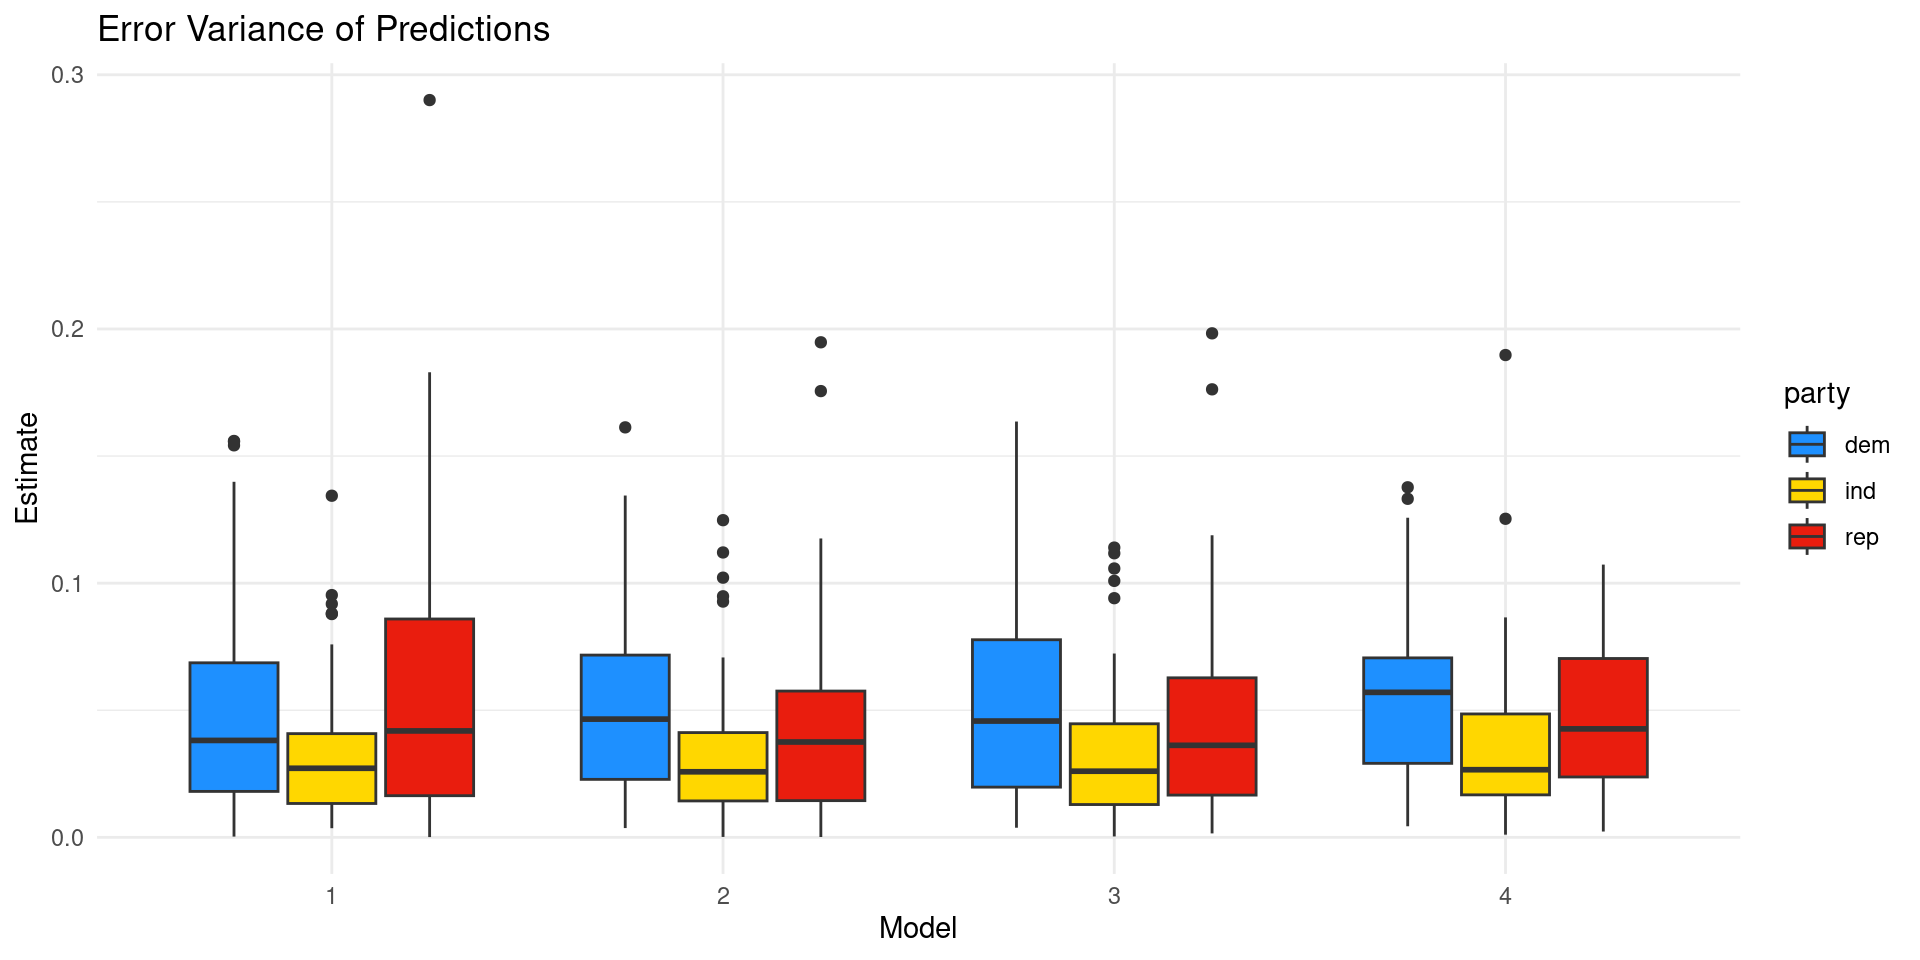
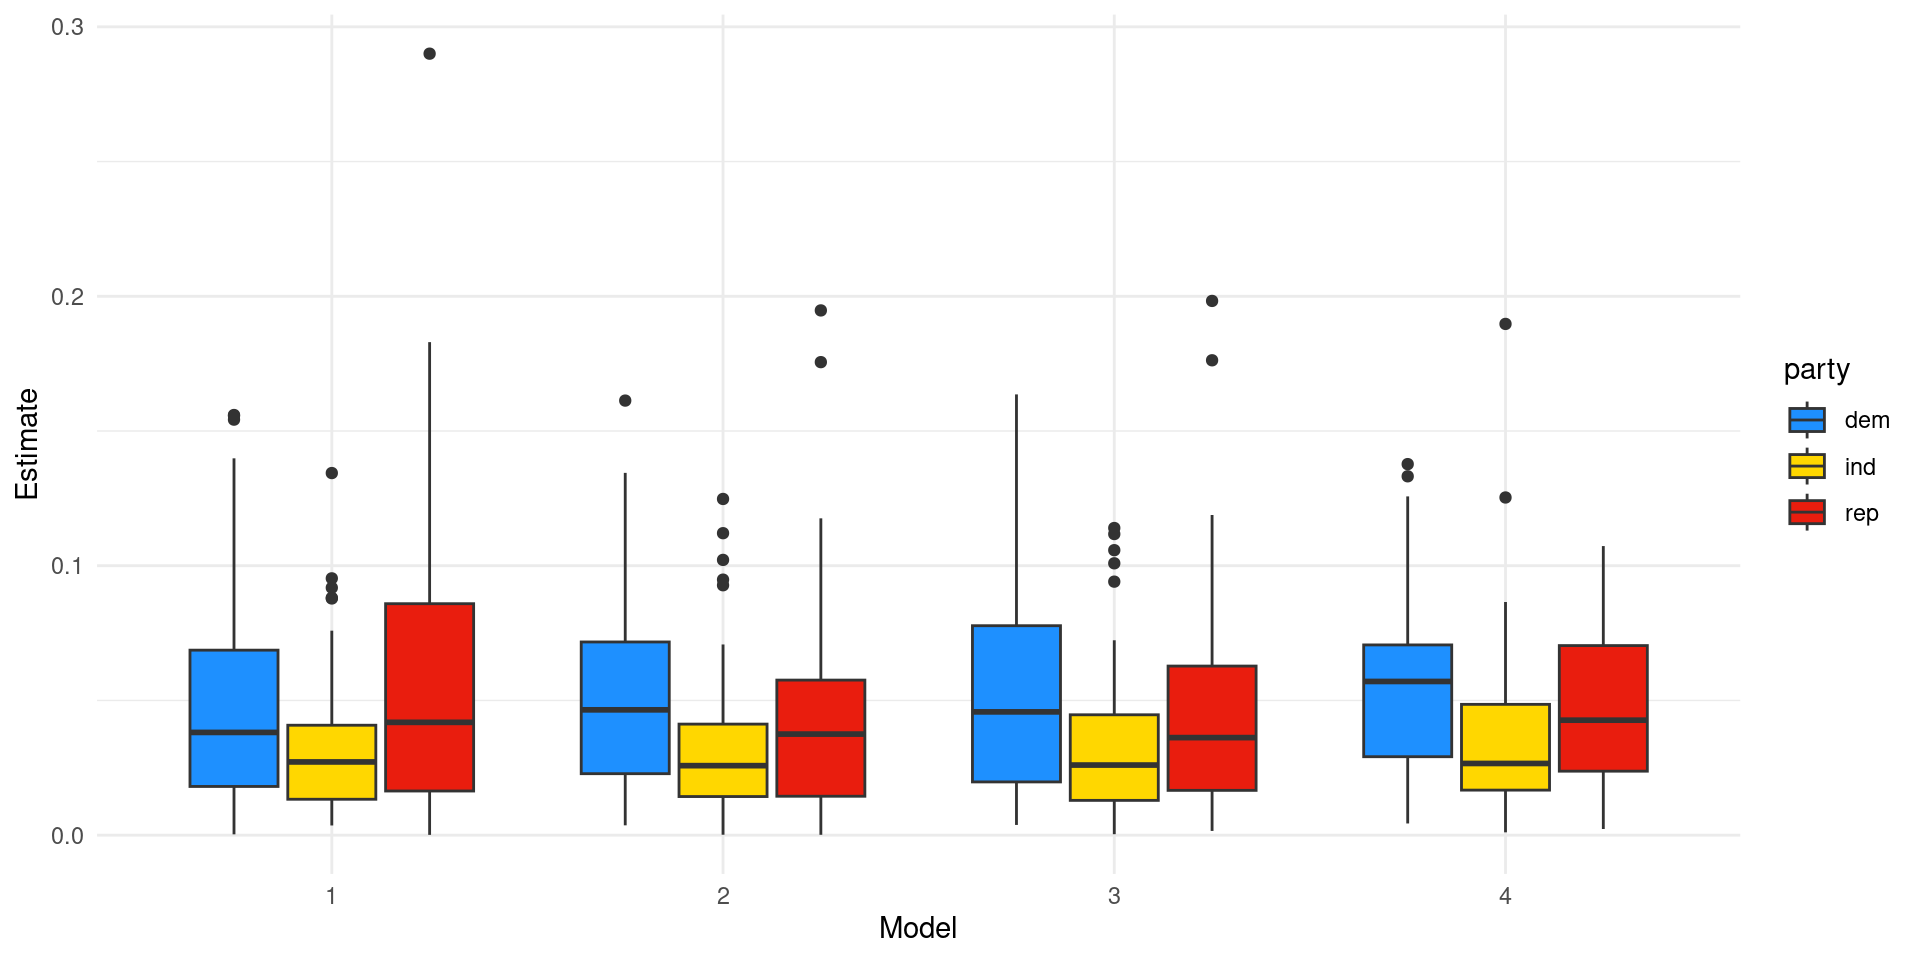
fit RF model for variable importance

diff --git a/docs/index.html b/docs/index.html
@@ -580,9 +580,9 @@ ANES Data:
           display:block!important;
       }</style></aside>
 </section>
-<section id="the-challenge-of-predicting-independent-partisanship" class="slide level2">
-<h2>The Challenge of Predicting Independent Partisanship</h2>
-<div class="cell" data-hash="index_cache/revealjs/val data_75b31ac349c2d309088ab1529e5322bd">
+<section id="error-variance-of-predictions" class="slide level2">
+<h2>Error Variance of Predictions</h2>
+<div class="cell" data-hash="index_cache/revealjs/val data_459df516900fcc29189e246ff8a21987">
 
 </div>
 
